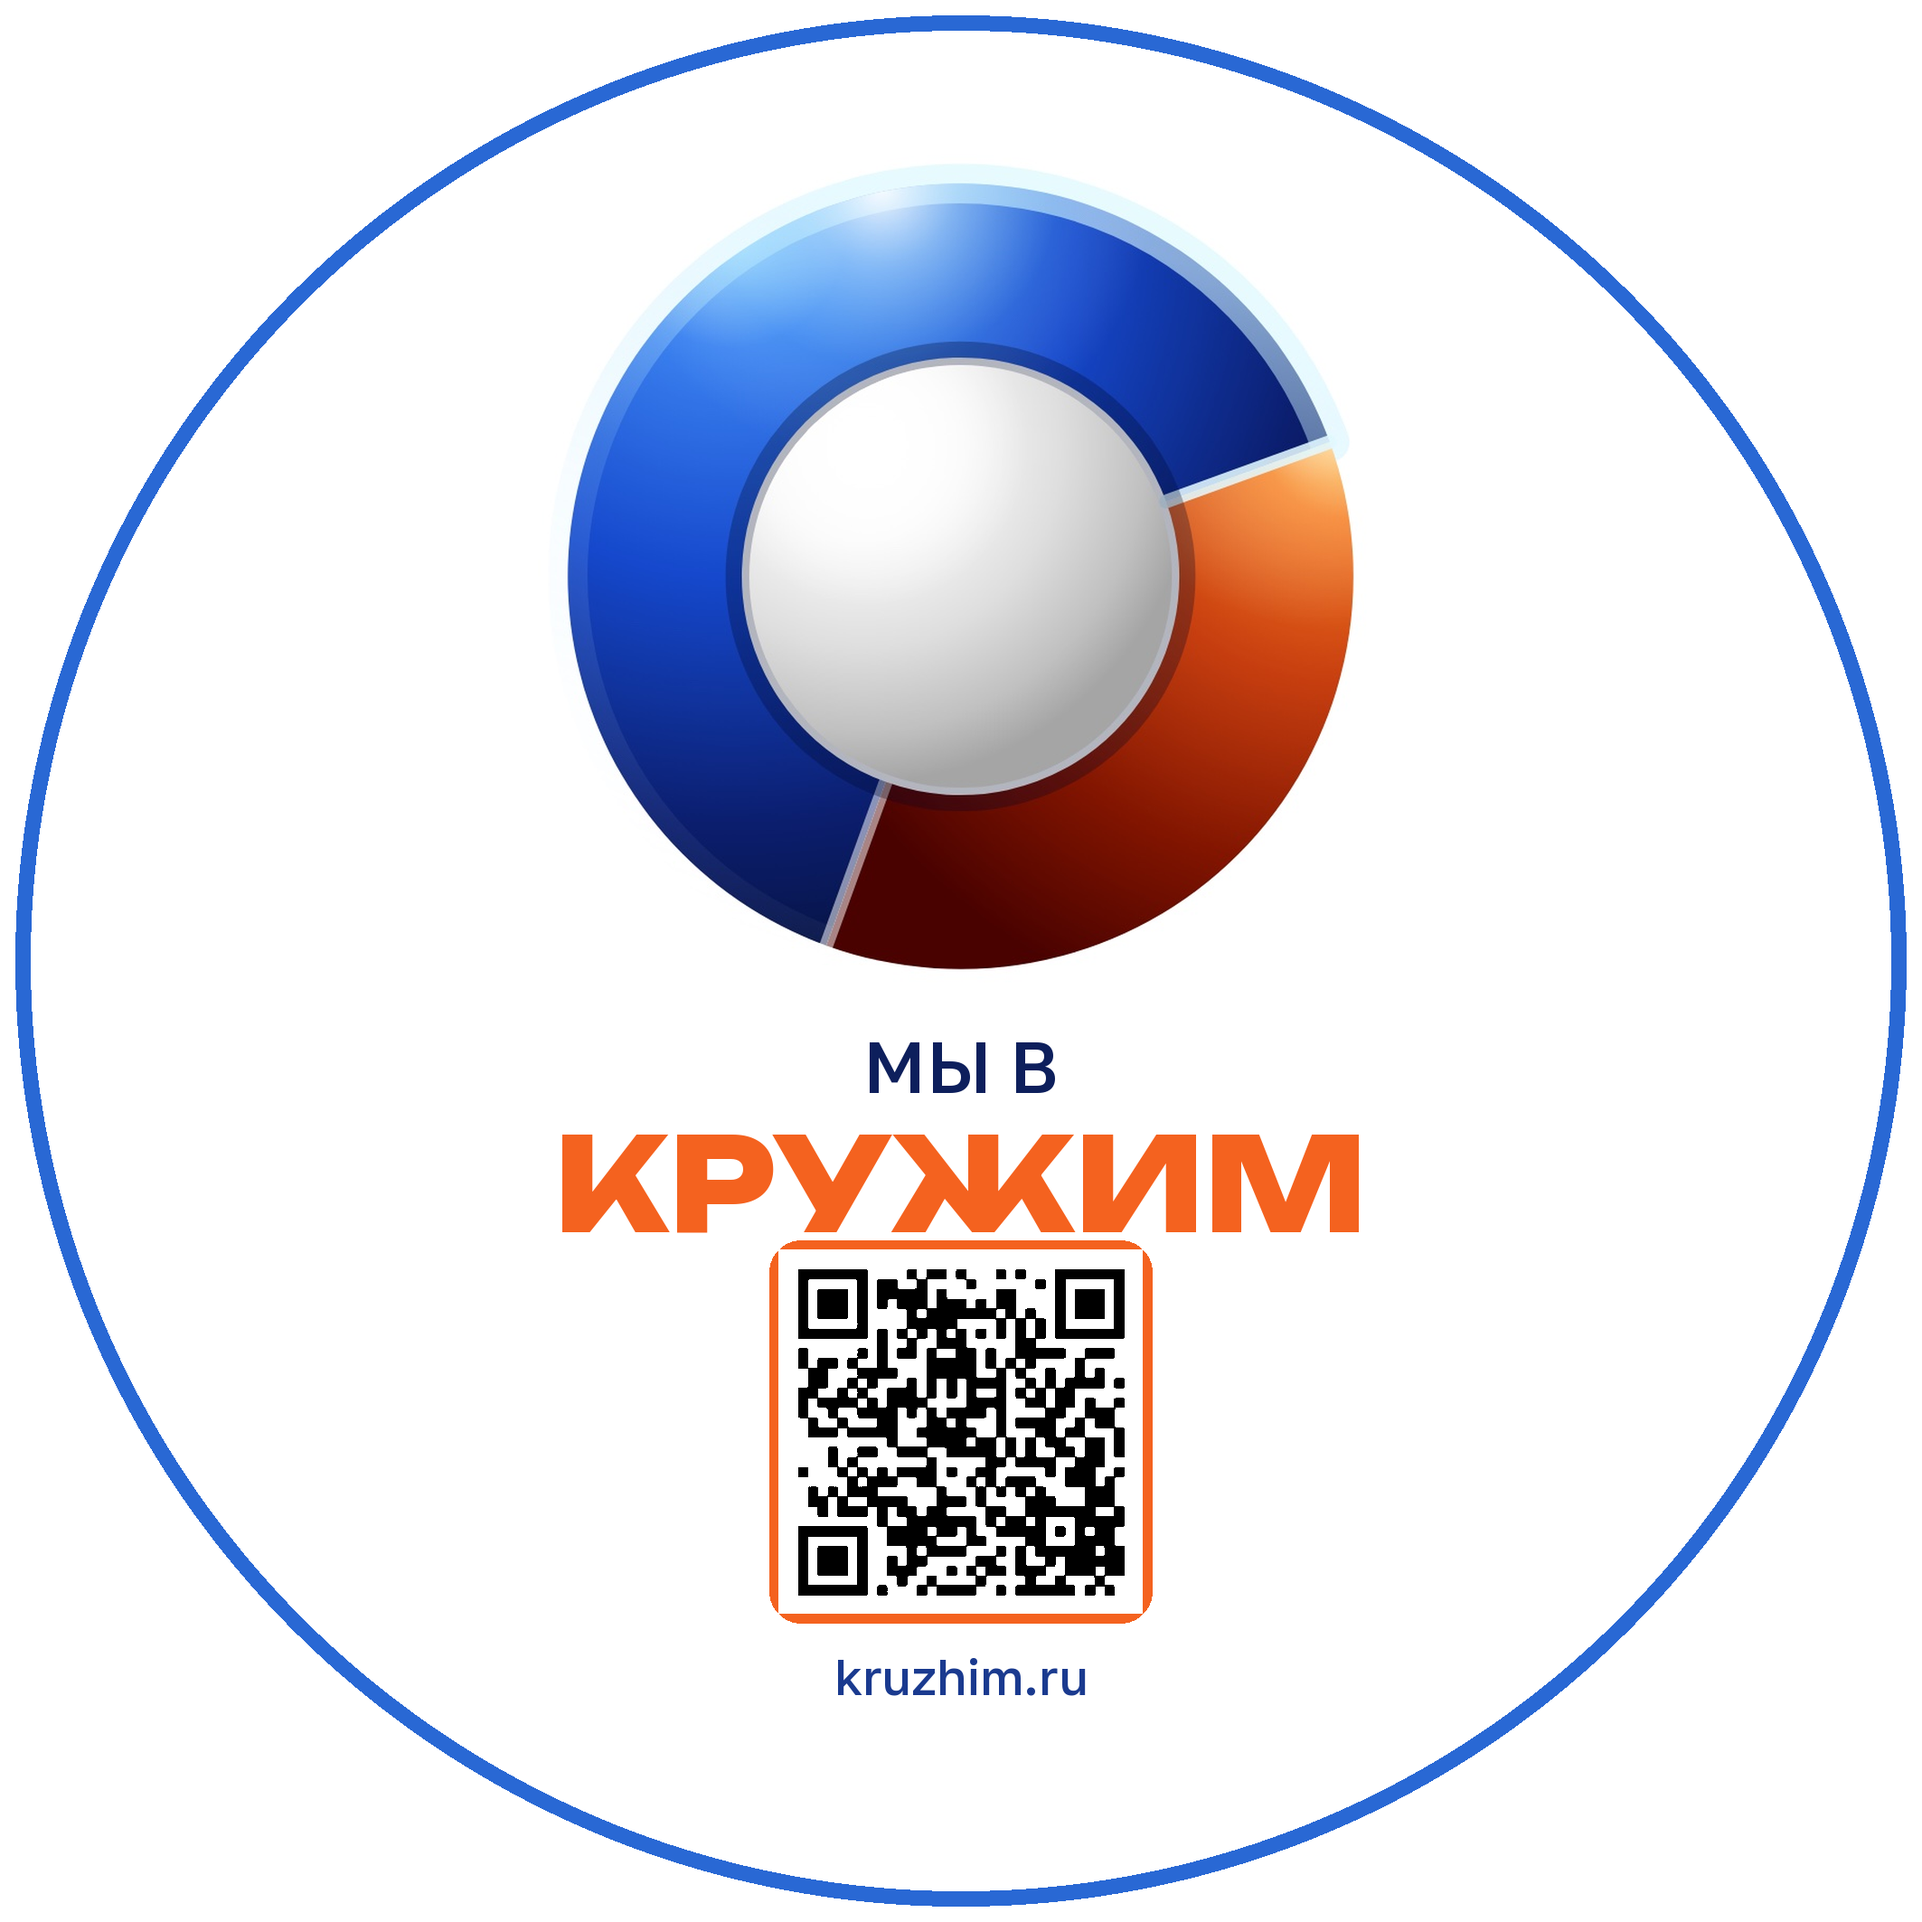
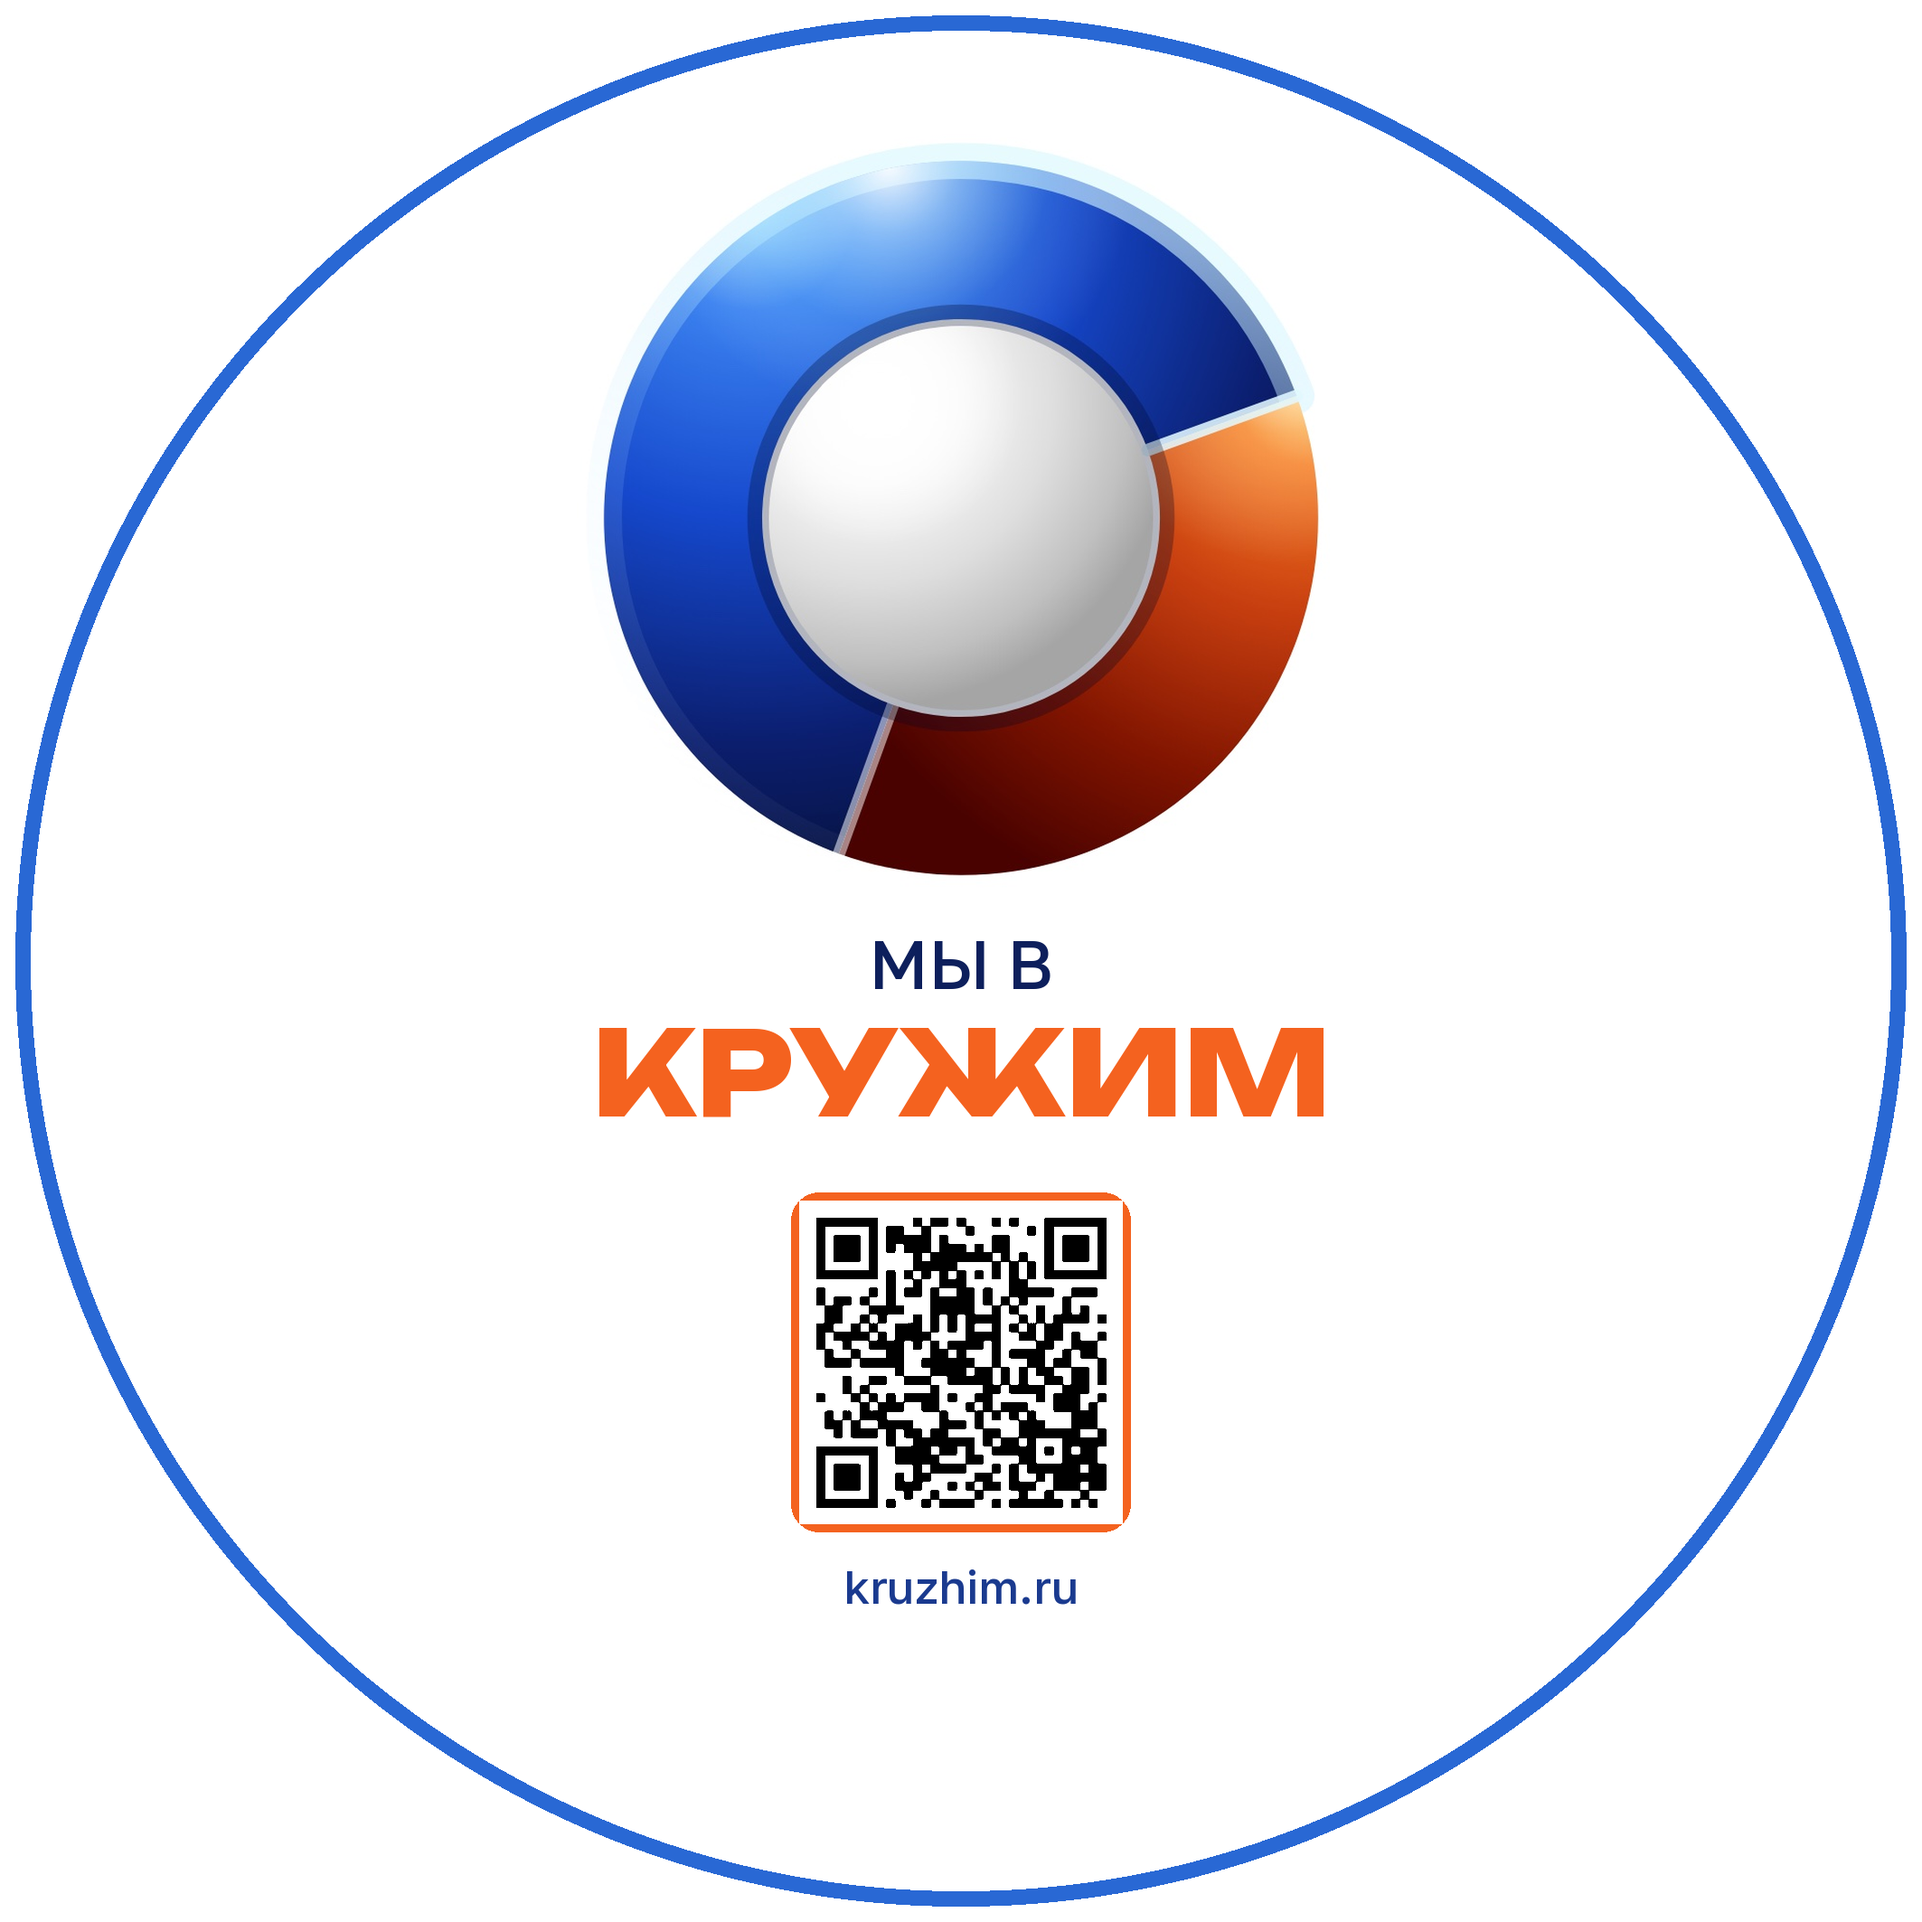
Показать полное название КРУЖИМ без обрезки
Расширить горизонтальную наклейку и увеличить зазор до QR на круге.

Changed region(s): [[0.2794, 0.0621, 0.714, 0.9003]]

diff --git a/sticker/generate_car_sticker.py b/sticker/generate_car_sticker.py
@@ -45,7 +45,7 @@ def with_stage(sticker: Image.Image, pad: int = 80, bg=(240, 245, 255, 255)) -> 
     return stage
 
 
-def draw_horizontal_car_sticker(width: int = 2400, height: int = 900) -> Image.Image:
+def draw_horizontal_car_sticker(width: int = 2800, height: int = 900) -> Image.Image:
     """Bumper / rear-window friendly layout: logo | copy | QR."""
     sticker = Image.new("RGBA", (width, height), WHITE)
     radius = height // 2  # stadium / pill shape — common car-window cut
@@ -66,30 +66,47 @@ def draw_horizontal_car_sticker(width: int = 2400, height: int = 900) -> Image.I
     sticker.alpha_composite(outline)
 
     # Left: large logo
-    logo_size = int(height * 0.72)
+    logo_size = int(height * 0.68)
     logo = prep_logo(logo_size)
-    logo_x = int(width * 0.06)
+    logo_x = int(width * 0.045)
     logo_y = (height - logo_size) // 2
     sticker.alpha_composite(logo, (logo_x, logo_y))
 
-    # Center: МЫ В / КРУЖИМ / url
-    draw = ImageDraw.Draw(sticker)
-    we_font = load_font(FONT_TEXT, int(height * 0.12), 500)
-    brand_font = load_font(FONT_DISPLAY, int(height * 0.22), 800)
-    url_font = load_font(FONT_TEXT, int(height * 0.08), 500)
+    # Right: QR first, so we can size the title to fit the gap
+    qr_inner = int(height * 0.38)
+    qr = prep_qr(qr_inner)
+    qr_x = width - qr.size[0] - int(width * 0.05)
+    qr_y = (height - qr.size[1]) // 2
 
+    # Center: МЫ В / КРУЖИМ / url — brand must fully fit before QR
+    draw = ImageDraw.Draw(sticker)
     we, brand, url = "МЫ В", "КРУЖИМ", "kruzhim.ru"
-    text_left = logo_x + logo_size + int(width * 0.04)
+    text_left = logo_x + logo_size + int(width * 0.035)
+    text_right = qr_x - int(width * 0.03)
+    max_brand_w = text_right - text_left
+
+    brand_size = int(height * 0.20)
+    brand_font = load_font(FONT_DISPLAY, brand_size, 800)
+    while brand_size > 40:
+        bb = draw.textbbox((0, 0), brand, font=brand_font)
+        if bb[2] - bb[0] <= max_brand_w:
+            break
+        brand_size -= 4
+        brand_font = load_font(FONT_DISPLAY, brand_size, 800)
+
+    we_font = load_font(FONT_TEXT, max(28, int(brand_size * 0.48)), 500)
+    url_font = load_font(FONT_TEXT, max(24, int(brand_size * 0.36)), 500)
 
     we_bbox = draw.textbbox((0, 0), we, font=we_font)
     brand_bbox = draw.textbbox((0, 0), brand, font=brand_font)
     url_bbox = draw.textbbox((0, 0), url, font=url_font)
     we_h = we_bbox[3] - we_bbox[1]
     brand_h = brand_bbox[3] - brand_bbox[1]
+    brand_w = brand_bbox[2] - brand_bbox[0]
     url_h = url_bbox[3] - url_bbox[1]
-    gap1, gap2 = int(height * 0.04), int(height * 0.05)
+    gap1, gap2 = int(height * 0.035), int(height * 0.045)
     block_h = we_h + gap1 + brand_h + gap2 + url_h
-    y = (height - block_h) // 2 - int(height * 0.02)
+    y = (height - block_h) // 2 - int(height * 0.015)
 
     draw.text((text_left, y), we, fill=INK, font=we_font)
     y2 = y + we_h + gap1
@@ -97,12 +114,11 @@ def draw_horizontal_car_sticker(width: int = 2400, height: int = 900) -> Image.I
     y3 = y2 + brand_h + gap2
     draw.text((text_left, y3), url, fill=BLUE_DEEP, font=url_font)
 
-    # Right: QR
-    qr_inner = int(height * 0.42)
-    qr = prep_qr(qr_inner)
-    qr_x = width - qr.size[0] - int(width * 0.07)
-    qr_y = (height - qr.size[1]) // 2
     sticker.alpha_composite(qr, (qr_x, qr_y))
+
+    # Safety: assert full brand visible (debug aid if layout regresses)
+    if brand_w > max_brand_w:
+        raise RuntimeError(f"Brand text still overflows: {brand_w} > {max_brand_w}")
 
     return sticker
 
@@ -179,7 +195,7 @@ def main() -> None:
     with_stage(circle_print).save(OUT_CIRCLE, "PNG")
 
     # Horizontal bumper / rear glass
-    horizontal_print = draw_horizontal_car_sticker(2400, 900)
+    horizontal_print = draw_horizontal_car_sticker(2800, 900)
     horizontal_print.save(OUT_HORIZONTAL_PRINT, "PNG")
     with_stage(horizontal_print, pad=70).save(OUT_HORIZONTAL, "PNG")
 

diff --git a/sticker/generate_sticker.py b/sticker/generate_sticker.py
@@ -92,16 +92,16 @@ def draw_sticker(size: int = SIZE, shadow: bool = True) -> Image.Image:
 
     # Layout inspired by Yandex «Хорошее место» stack:
     # mark → light label → bold title → footer mark (QR)
-    logo_size = int(size * 0.44)  # 2× relative to previous 0.22
+    logo_size = int(size * 0.40)  # large logo, room for full title + QR
     logo = prep_logo(logo_size)
     logo_x = (size - logo_size) // 2
-    logo_y = int(size * 0.08)
+    logo_y = int(size * 0.07)
     sticker.alpha_composite(logo, (logo_x, logo_y))
 
     draw = ImageDraw.Draw(sticker)
-    we_font = load_font(FONT_TEXT, int(size * 0.038), 500)
-    brand_font = load_font(FONT_DISPLAY, int(size * 0.068), 800)
-    url_font = load_font(FONT_TEXT, int(size * 0.026), 500)
+    we_font = load_font(FONT_TEXT, int(size * 0.036), 500)
+    brand_font = load_font(FONT_DISPLAY, int(size * 0.062), 800)
+    url_font = load_font(FONT_TEXT, int(size * 0.024), 500)
 
     we = "МЫ В"
     brand = "КРУЖИМ"
@@ -111,23 +111,24 @@ def draw_sticker(size: int = SIZE, shadow: bool = True) -> Image.Image:
     brand_bbox = draw.textbbox((0, 0), brand, font=brand_font)
     we_w = we_bbox[2] - we_bbox[0]
     brand_w = brand_bbox[2] - brand_bbox[0]
+    brand_h = brand_bbox[3] - brand_bbox[1]
 
-    text_top = logo_y + logo_size + int(size * 0.012)
+    text_top = logo_y + logo_size + int(size * 0.01)
     draw.text(((size - we_w) / 2, text_top), we, fill=INK, font=we_font)
 
-    brand_y = text_top + int(size * 0.042)
+    brand_y = text_top + int(size * 0.04)
     draw.text(((size - brand_w) / 2, brand_y), brand, fill=ORANGE, font=brand_font)
 
-    # QR in lower third (replaces year block on Yandex stickers)
-    qr_inner = int(size * 0.18)
+    # QR below full title with clear gap (no overlap with letter bottoms)
+    qr_inner = int(size * 0.16)
     qr = prep_qr(qr_inner)
     qr_x = (size - qr.size[0]) // 2
-    qr_y = brand_y + int(size * 0.072)
+    qr_y = brand_y + brand_h + int(size * 0.055)
     sticker.alpha_composite(qr, (qr_x, qr_y))
 
     url_bbox = draw.textbbox((0, 0), url, font=url_font)
     url_w = url_bbox[2] - url_bbox[0]
-    url_y = qr_y + qr.size[1] + int(size * 0.012)
+    url_y = qr_y + qr.size[1] + int(size * 0.014)
     draw.text(((size - url_w) / 2, url_y), url, fill=BLUE_DEEP, font=url_font)
 
     if not shadow:
